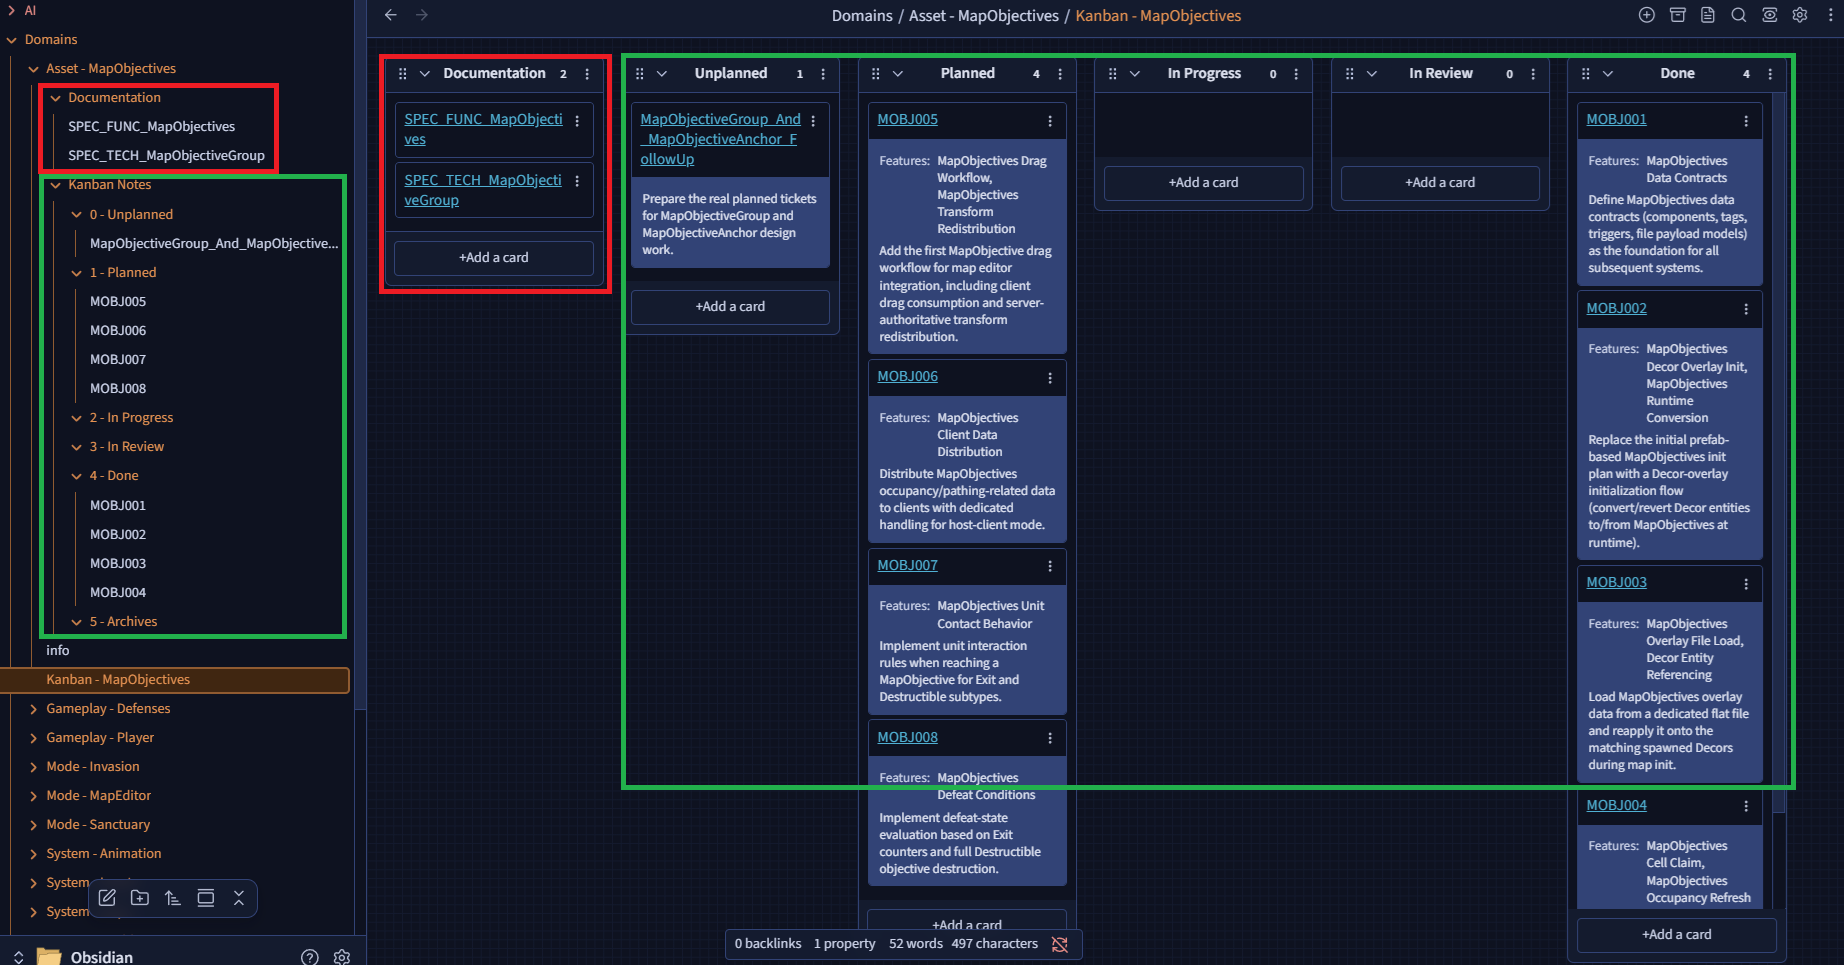
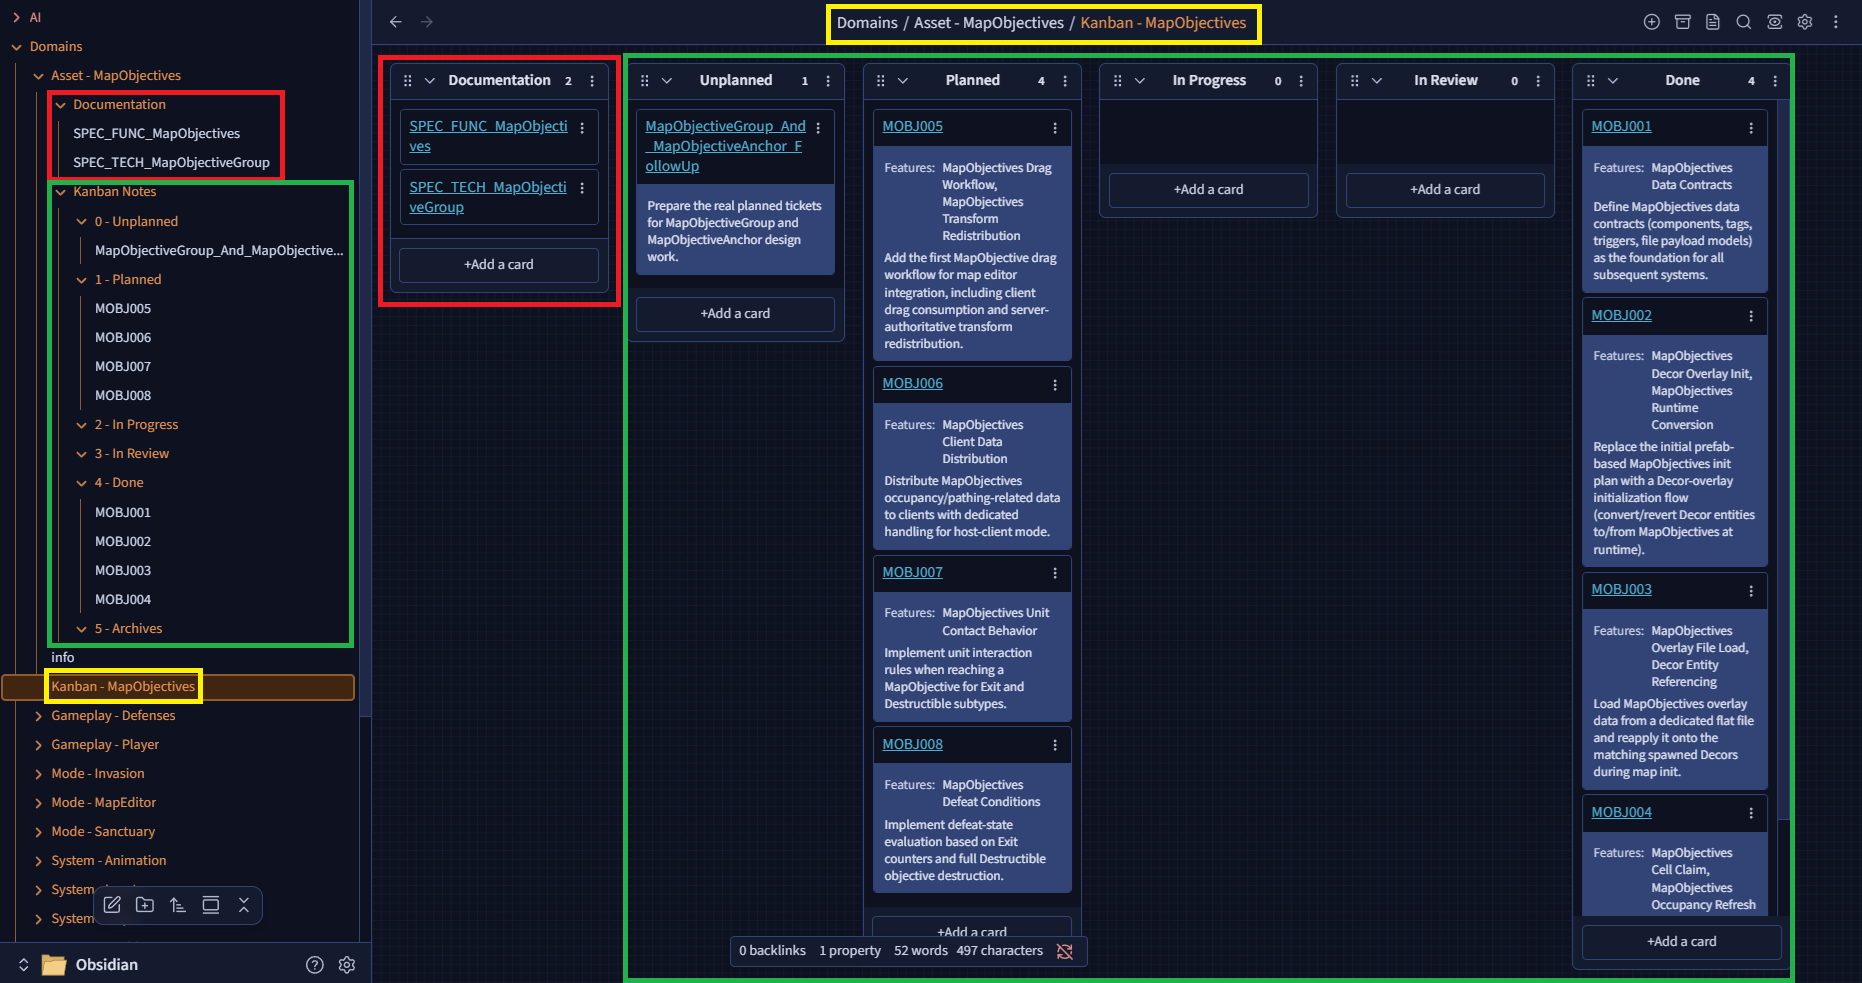
Quartz sync: Apr 11, 2026, 6:51 PM

Changed region(s): [[0.0, 0.0, 0.9892, 1.0]]

diff --git a/content/fr/Outils/Obsidian.md b/content/fr/Outils/Obsidian.md
@@ -33,37 +33,116 @@ Sauf qu'on a eu un nouvel arrivant dans le game : <span style="color: steelblue;
 
 Et vous savez quoi ? Bah y a un outil de gestion de notes qui gère tout avec des markdowns : <a href="https://obsidian.md" target="_blank">Obsidian</a>. Je m'en servais déjà depuis 1 an pour gérer des notes personnelles et créer des schémas Excalidraw pour mon jeu. Début 2026, j'ai eu une illumination et je me suis dis qu'il y aurait moyen d'entièrement automatiser le process de gestion de projet en combinant Obsidian à une IA.
 
-Ce que je vais vous présenter ici, c'est donc un **processus de gestion de projet centralisé dans la codebase et automatisé par IA** (orienté game dev ou non) :
+Ce que je vais vous présenter ici, c'est donc un **processus de gestion de projet via Obsidian, centralisé dans la codebase et automatisé par IA** (applicable au game dev ou non) :
 - une <span style="color: steelblue;">centralisation documentataire</span> (spécifications fonctionnelles / techniques, dossier d'architecture / exploitation, schémas Excalidraw et Mermaids, dossiers de références de design...)
 - une <span style="color: steelblue;">centralisation des skills IA</span> (qui deviennent agnostique de votre provider)
 - un <span style="color: steelblue;">workflow Kanban automatisé</span> (vous ne toucherez jamais au kanban et aux tickets vous même, tout est fait par l'IA)
 - un <span style="color: steelblue;">alignement</span> de la rédaction des <span style="color: steelblue;">commits GIT</span> sur le <span style="color: steelblue;">ticket Kanban</span> associé
-- un <span style="color: steelblue;">suivi de projet intégré au code</span> : quand vous faites un commit, tout est sauvegardé, pas juste le code
+- un <span style="color: steelblue;">suivi de projet intégré au code</span> : quand vous faites un commit, tout est sauvegardé dans le même repo, pas juste le code
 
 Les limites de mon implémentation :
-- je n'ai pas designé de garde-fou pour des utilisateurs en parallèle (même si je pense que c'est possible)
-- se retenir absolument de mettre nos mains pateuses d'humain dans le process et passer par l'IA systématiquement (elle est dure celle là...)
-- un coût d'entrée long : il faudra faire créer par l'IA les skills nécessaires pour gérer la chaine selon votre façon de travailler (je vous fournirais en exemple les miens, mais c'est un process perso adapté à mon workflow gamedev, pas forcément pertinent pour vous)
+- je n'ai **pas** designé de garde-fou pour des **utilisateurs en parallèle** (même si je pense que c'est possible)
+- se retenir absolument de mettre nos mains pateuses d'humain dans le process et **passer par l'IA systématiquement** (elle est dure celle là...)
+- un coût d'entrée qui peut être long (dépendra de vos exigences) : il faudra adapter les procédures `.md` pour gérer la chaine selon votre façon de travailler (je vous fournirais en exemple les miens comme base de travail)
 
-Ca fait plusieurs mois que je m'en sers, ça m'a demandé pas mal de rafinement du process mais j'en suis extrêmement satisfait désormais. Et je vous recommande de faire l'effort initial, c'est un investissement long terme que vous ne regretterez pas puisqu'**entièrement transposable d'un projet à un autre**.
+Ca fait plusieurs mois que je m'en sers, ça m'a demandé pas mal de rafinement du process mais j'en suis extrêmement satisfait désormais. Et je vous recommande de faire l'effort initial, c'est un investissement sur le long terme que vous ne regretterez pas puisqu'**entièrement transposable d'un projet à un autre** une fois setup.
 
 ---
 
-**1 - Pré-requis**
+**1 - Installation**
 
 A télécharger : 
-- <a href="https://obsidian.md" target="_blank">Obsidian</a>
-- votre IA coding (mon setup marche parfaitement avec Claude Sonnet 4.5 et GPT 5.3)
+- le logiciel Obsidian : https://obsidian.md
+- ma config : https://github.com/Keilthar/Obsidian-Workflow
+- votre IA coding (mon setup marche avec Claude Sonnet/Opus 4.5 et Codex GPT 5.3)
 
-Ensuite on setup Obsidian :
-1. l'idée est donc d'avoir la gestion de projet dans votre codebase. Pour ça, **à la racine de votre projet**, vous **créez un dossier `/Obsidian`** qui contiendra presque tout ce qu'on déploiera ici.
+Ensuite 2 cas, votre projet est-il vierge de configurations IA (`CLAUDE.md`, `AGENTS.md` et/ou répertoires de skills) ?
+1. OUI :
+   - vous déposez tout le contenu du git à la racine de votre projet
+2. NON :
+   - vous déposez le répertoire `/Obsidian` à la racine de votre projet
+   - vous déposer les 2 skills `project-management` / `superpowers` dans le sous-répertoire `/skills` de votre IA
+(si vous avez déjà `superpowers`, ce skill ne rentre pas en conflit, c'est un simple wrapper qui regroupe en 1 commande tous les sous-skills stockés dans `/Obsidian`)
+   - vous ajoutez le contenu de `CLAUDE.md` ou `AGENTS.md` (ils sont identiques) dans l'existant.
 
-2. dans **Obsidian**, vous **créez un Vault dans ce répertoire**. Ca vous ajoutera un répertoire caché `.Obsidian`, qui portera les configs de l'outil.
-Note : si vous ajoutez Obsidian à .gitignore, ce répertoire ne sera pas sauvegardé. Perso j'aime bien pouvoir tout retrouver ISO quand je change de machine, mais c'est à votre convenance !
+Ensuite vous ouvrez <span style="color: steelblue;">Obsidian</span>, vous ouvrez le répertoire `/Obsidian` en tant que coffre et ça vous demandera si vous me faîtes confiance (et je vous lâche mon meilleur : **trust me bro**).
+
+Installation terminée.
 
 ---
 
-**2 - Structure des répertoires**
+**2 - Utilisation**
+
+Vous avez un <span style="color: steelblue;">Example - Network</span> pour vous montrer la structure, je vous laisse le parcourir (spoiler : il est rigolo). Vous pouvez **supprimer ce répertoire** une fois que nous n'en avez plus besoin.
+
+<div style="display: flex; gap: 20px; align-items: center;">
+    <div style="display: flex; justify-content: center; align-items: center; flex: 1;">
+            <img src="/static/png/Obsidian/Example_Network.png" alt="Worktree Obsidian" width="100%"/>
+    </div>
+    <div style="flex: 1;">
+Dans <span style="color: orange;">Domains</span> vous trouverez toute la structure de gestion du projet.
+
+Un domaine représente un périmètre fonctionnel de l'application (un bloc de travail métier). Vous pourrez donc créer autant de domaines que vous le souhaiter (ou juste un seul si vous n'aimez pas le concept).
+
+Chaque domaine contient :
+
+- sa documentation
+- ses tickets par phase
+- un kanban dédié
+- un fichier `info.md` qui permet à l'IA d'incrémenter les tickets avec un ID unique
+
+Sous les dossiers domaines, vous avez 2 fichiers <span style="color: steelblue;">BASE</span>, qui sont des **kanbans globaux** gérés par <span style="color: steelblue;">Obsidian</span> (l'IA n'intervient pas dessus) :
+- `Documentation - Project` liste toute la documentation existante
+- `Kanban - Project` liste tous les tickets existants
+
+Ils permettent de faire le suivi global du projet.
+    </div>
+</div>
+
+---
+
+<div style="display: flex; gap: 20px; align-items: center;">  
+    <div>
+            <img src="/static/png/Obsidian/Kanban_Interne.png" alt="Kanban Interne" width="100%"/>
+            <div style="display: flex; justify-content: center; align-items: center; flex: 1;"><span>Kanban par domaine, manipulé par l'IA</span></div>
+    </div>
+    <div>
+        <img src="/static/png/Obsidian/Kanban_Base.png" alt="Kanban Base" width="100%"/>
+        <div style="display: flex; justify-content: center; align-items: center; flex: 1;"><span>Kanban globale <span style="color: steelblue;">BASE</span>, synchronisé par Obsidian</span></div>
+    </div>
+</div>  
+
+---
+
+Globalement l'utilisation est très simple, vous pouvez demander à l'IA :
+1. de <span style="color: steelblue;">créer un domaine</span> :
+   - elle vous demandera son nom et un préfixe de 3-4 lettres qui identifie les tickets qui lui sont liés (exemple Domaine Network -> préfixe NTW -> tickets NTW001, NTW002...)
+   - elle vous créera toute l'arborescence à partir du template
+2. de <span style="color: steelblue;">créer un nouveau ticket</span>, elle vous demandera la phase dans laquelle le placer (`Unplanned` ou `Planned`)
+   - `Unplanned` : permet de référencer des idées, sans convention stricte sur le format du ticket
+   - `Planned` : suit un process ticket strict, avec un identifiant unique du ticket, une description, un sommaire et une liste de tâches. Vous avez aussi la possibilité de lier le ticket à des <span style="color: steelblue;">related-domaine</span>, de gérer des notions de <span style="color: steelblue;">features</span> et de l'associer à un <span style="color: steelblue;">MVP</span> (notions que vous retrouverez dans le Kanban général <span style="color: steelblue;">BASE</span>)
+3. de <span style="color: steelblue;">gérer un ticket existant</span> :
+    - elle vous demandera son ID
+    - elle pourra l'alimenter à votre demande, par exemple en résumant à l'intérieur les actions définies pendant un `/plan` ou un `brainstorm` de <span style="color: steelblue;">SuperPowers</span>
+    - elle gèrera les changements de phases
+4. de faire un <span style="color: steelblue;">GIT commit lié à un ticket</span>
+    - le commit portera par défaut l'ID du ticket et un titre court dans son nom
+    - elle récupèrera automatiquement le contenu du ticket et l'injectera dans la description du commit
+    - vous pouvez faire des commits intermédiaires (ticket pas encore entièrement traité), elle suivra le même process, vous aurez juste des tâches non validées dans la description
+
+Quelques règles simples :
+- vous pouvez éditer les informations du ticket vous même
+- ne touchez pas aux metadatas du ticket (sinon vous risquez de sortir le ticket des Kanbans globaux <span style="color: steelblue;">BASE</span>). L'IA pourra corriger le coût ça au cas où.
+- ne faites pas de drag&drop des tickets pour les changer de phase : ça ne casse rien en soit, mais par contre, la metadata n'étant pas mise à jour par cette action, les Kanbans globaux <span style="color: steelblue;">BASE</span> ne seront pas à jour. Bouger un ticket de phase => demandez à l'IA.
+- si vous vous rendez compte que l'IA ne suit plus correctement la procédure, invoquez le skill `/project-management` pour qu'elle relise la doc
+
+Et voilà, rien de plus compliqué.
+
+Dans la suite de l'article, je vous explique l'architecture, comment ça marche et le pourquoi du comment j'ai fais certains choix de design. Si vous voulez customiser le fonctionnement, je vous invite à y jeter un oeil sinon vous pouvez arrêter votre lecture ici. 😉
+
+---
+
+**3 - Structure des répertoires**
 
 Voici comment j'ai architecturé mon vault Obsidian :
 
@@ -114,36 +193,51 @@ Question de contexte et de tokens !
 
 L'idée est d'avoir des kanbans taille réduite, que l'IA va pouvoir gérer sans exploser son contexte à parcourir des dizaines, voir centaines, de tickets à chaque interaction.
 
-Mais comme on a quand même besoin d'un Kanban global pour le suivi d'un MVP par exemple, j'utilise les fichiers Kanban `base`, qui est une feature d'**Obsidian** utilisant les metadatas dans les frontmatters des tickets (c'est à ça que sert Obsidian à la base ! Gérer des notes et des metadatas).
+Mais comme on a quand même besoin d'un Kanban global pour le suivi d'un MVP par exemple, j'utilise les fichiers Kanban `base`, qui est une feature d'<span style="color: steelblue;">Obsidian</span> utilisant les metadatas dans les frontmatters des tickets (c'est à ça que sert Obsidian à la base ! Gérer des notes et des metadatas).
                 </span>
             </div>
-        </div>
-        <div style="display: flex; gap: 20px; align-items: center;">  
-            <div>
-                    <img src="/static/png/Obsidian/Kanban_Interne.png" alt="Kanban Interne" width="100%"/>
-                    <div style="display: flex; justify-content: center; align-items: center; flex: 1;"><span>Kanban par domaine, manipulé par l'IA</span></div>
-            </div>
-            <div>
-                <img src="/static/png/Obsidian/Kanban_Base.png" alt="Kanban Base" width="100%"/>
-                <div style="display: flex; justify-content: center; align-items: center; flex: 1;"><span>Kanban globale, `base` synchronisé par Obsidian</span></div>
-            </div>
-        </div>        
+        </div>      
     </blockquote>
 </div>
 
 ----
 
-**Setup IA**
+**4 - Configuration IA**
 
-Comme je l'ai déjà mentioné, le stetup se veut le plus **agnostique** et **centralisé** que possible. L'idée est donc que les fichiers des IA ne portent aucune responsabilité et pointent simplement vers des <span style="color: steelblue;">points d'entrée</span> dans **Obsidian** et vous n'aurez ensuite plus jamais besoin de les retoucher.
+Comme je l'ai déjà mentioné, le setup se veut le plus **agnostique** et **centralisé** que possible. L'idée est donc que les fichiers dans les répertoires standards des IA ne portent aucune responsabilité et pointent simplement vers des <span style="color: steelblue;">points d'entrée</span> dans <span style="color: steelblue;">Obsidian</span>. Vous n'aurez ensuite plus jamais besoin de les retoucher.
 
 Exemple pour mon setup, 1 `CLAUDE.md` et 2 fichiers `SKILL.md` minimalistes :
 
 <img src="/static/png/Obsidian/AI_MDs.png" alt="Kanban Interne" width="100%"/>  
 
-*J'ai l'exact même setup pour Codex avec un `AGENTS.md` et les mêmes 2 `SKILL.md`. j'ai donc simplement à changer l'information dans un <span style="color: steelblue;">point d'entrée</span> et mes 2 IAs seront alignées. Plus besoin de dupliquer des .mds dans leurs arborescences respectives !*
+*J'ai les exactes même fichiers pour Codex avec un `AGENTS.md` et les mêmes 2 `SKILL.md`. J'ai donc simplement à changer l'information dans un <span style="color: steelblue;">point d'entrée</span> dans <span style="color: steelblue;">Obsidian</span> et mes 2 IAs seront alignées sans aucune autre action. Plus besoin de dupliquer des `.md` dans leurs arborescences respectives !*
 
-A quoi me servent
+Ainsi non seulement <span style="color: steelblue;">Obsidian</span> héberge ma documentation projet, mais il porte aussi la data comportementale de l'IA qui le gère. Je peux donc pull mon repo GIT sur un nouveau poste et je retrouve mon IA dans mon setup projet.
+
+Mieux ! Demain je crée un nouveau projet sous Unity ? Je n'ai qu'à :
+- dupliquer mon répertoire `/Obsidian`
+- supprimer les répertoires de **<span style="color: orange;">Domains</span>**
+- réécrire une description du projet 
+
+et je suis instantanément prêt à travailler.
+
+<div style = "display: flex; justify-content: center; align-items: center;">
+    <blockquote class="callout tip" data-callout="tip">
+        <div style = "display: flex; justify-content: center; align-items: center;" class="callout-title">
+            <div class="callout-icon"></div>
+            <div class="callout-title-inner"><span>A quoi servent les 2 skills vu qu'ils répètent un pointeur présent dans AGENTS.md et CLAUDE.md ?</span></div>
+        </div>
+        <div>
+            <span>
+ Parfois l'IA se perd dans son contexte et ne suivra plus certaines consignes, ça fait parti de leurs inconvénients intrinsèques. 
+ 
+ Si je constate une déviance ou après `/compact` de la discussion, je tape simplement `/project-management` ou `/superpowers` pour forcer l'IA à relire les procédures et ainsi les faire remonter dans son contexte. Avec cette technique, je peux maintenir une consistance de l'IA même dans des discussions longues.
+            </span>
+        </div>
+    </blockquote>
+</div>
+
+
 
 <script src="https://giscus.app/client.js"
         data-repo="Keilthar/devlog"
